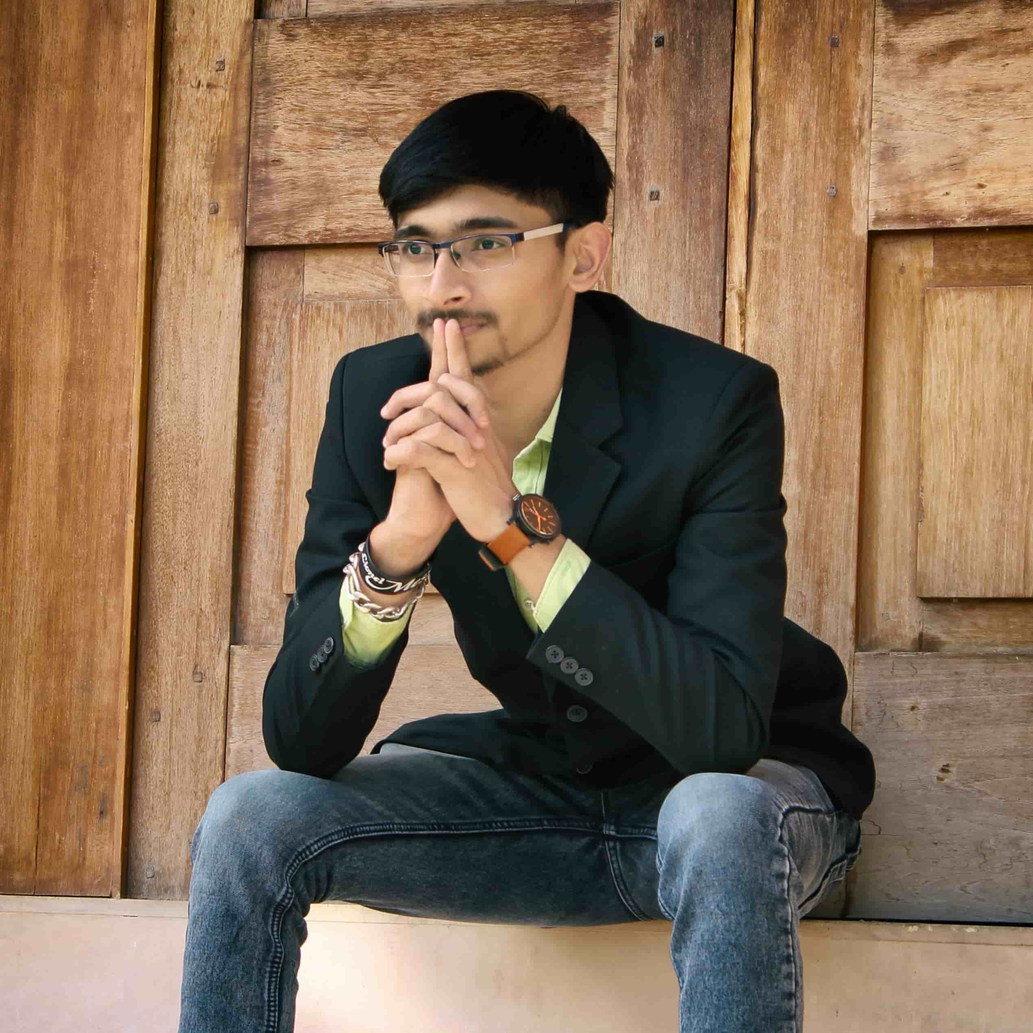
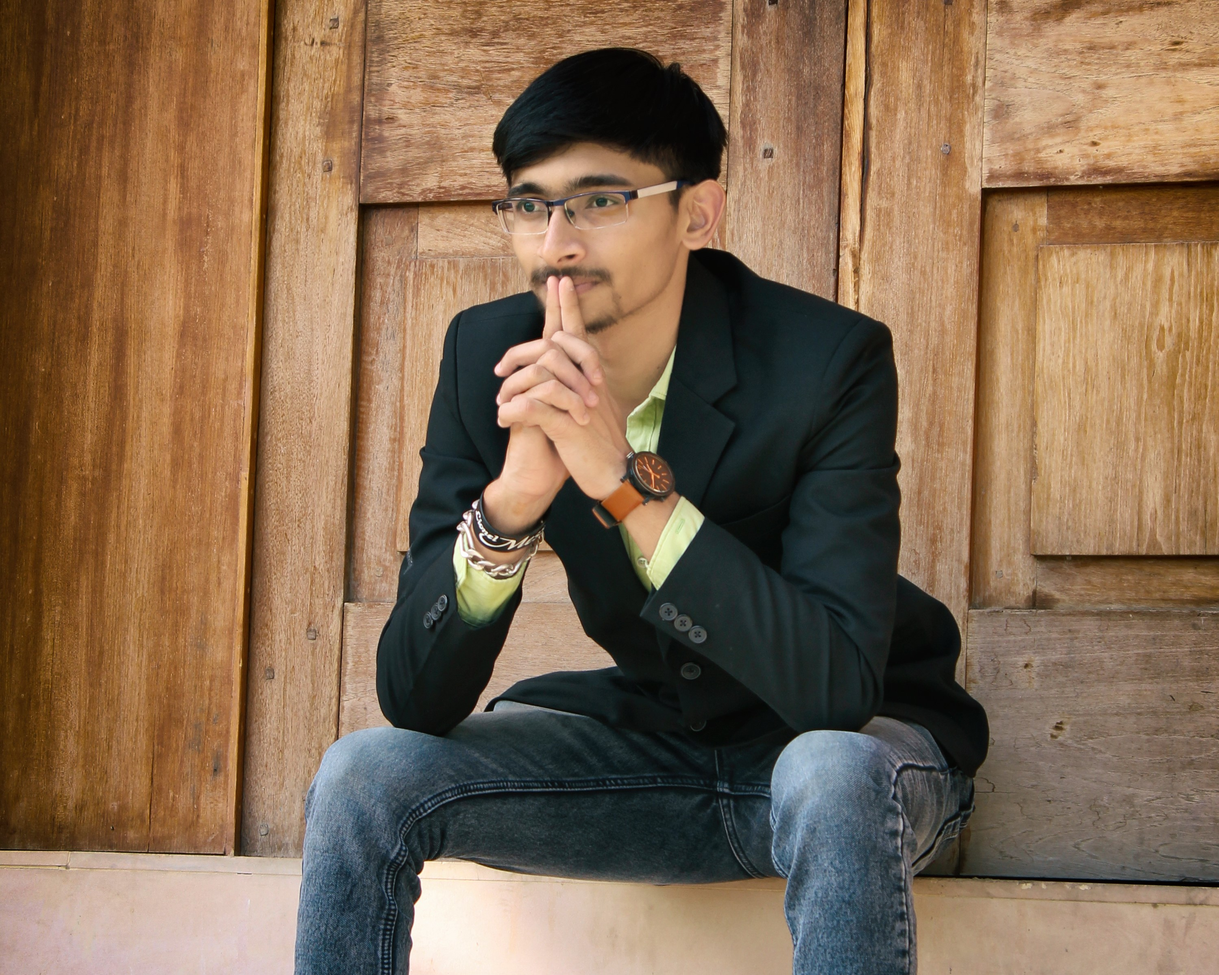
ENH: Update profile picture styles

diff --git a/src/components/about/about.scss b/src/components/about/about.scss
@@ -6,7 +6,7 @@
 }
 
 .profile-image {
-  @apply shadow-xl rounded-full max-w-full h-auto align-middle border-none shadow-slate-700/50;
+  @apply shadow-xl rounded-2xl max-w-full h-auto align-middle border-none shadow-slate-700/50;
 }
 
 .profile-image-wrapper {
@@ -14,7 +14,7 @@
 }
 
 .profile-image-container {
-  @apply w-3/5 sm:w-3/5 md:w-1/2 lg:w-1/3 xl:w-1/3 px-4;
+  @apply w-full md:w-3/5 px-4;
 }
 
 .about-name {

diff --git a/src/components/about/about.tsx b/src/components/about/about.tsx
@@ -20,7 +20,6 @@ const About = () => {
           />
         </div>
       </div>
-
       <div className="about-name">Nirav Chavda</div>
       <div className="about-short">
         I'm a Software Craftsperson, Learner and an Enthusiast
